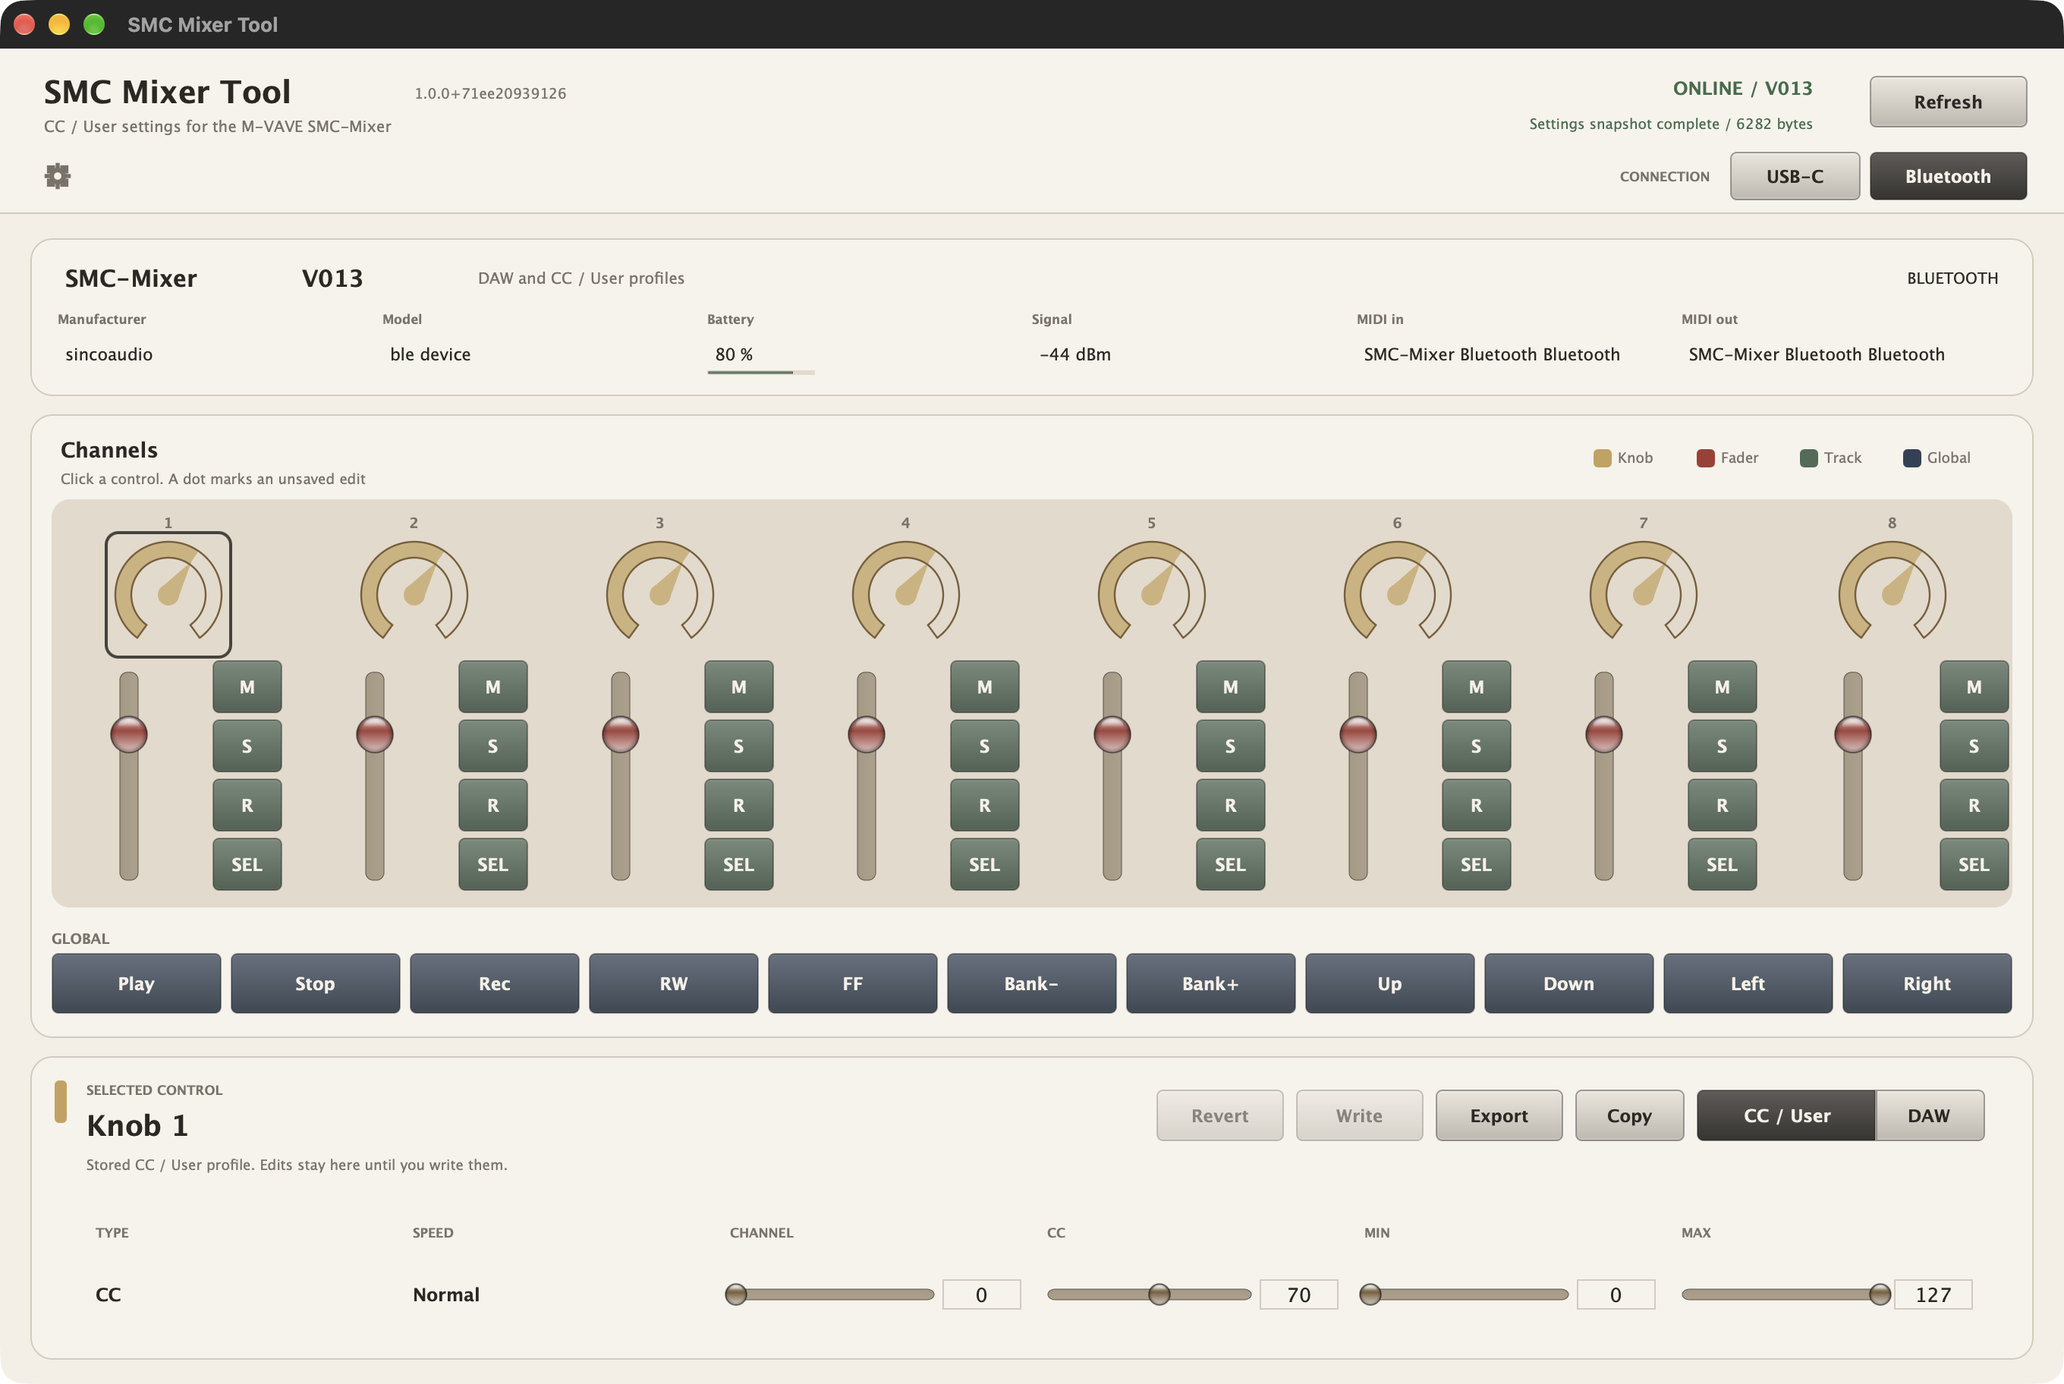
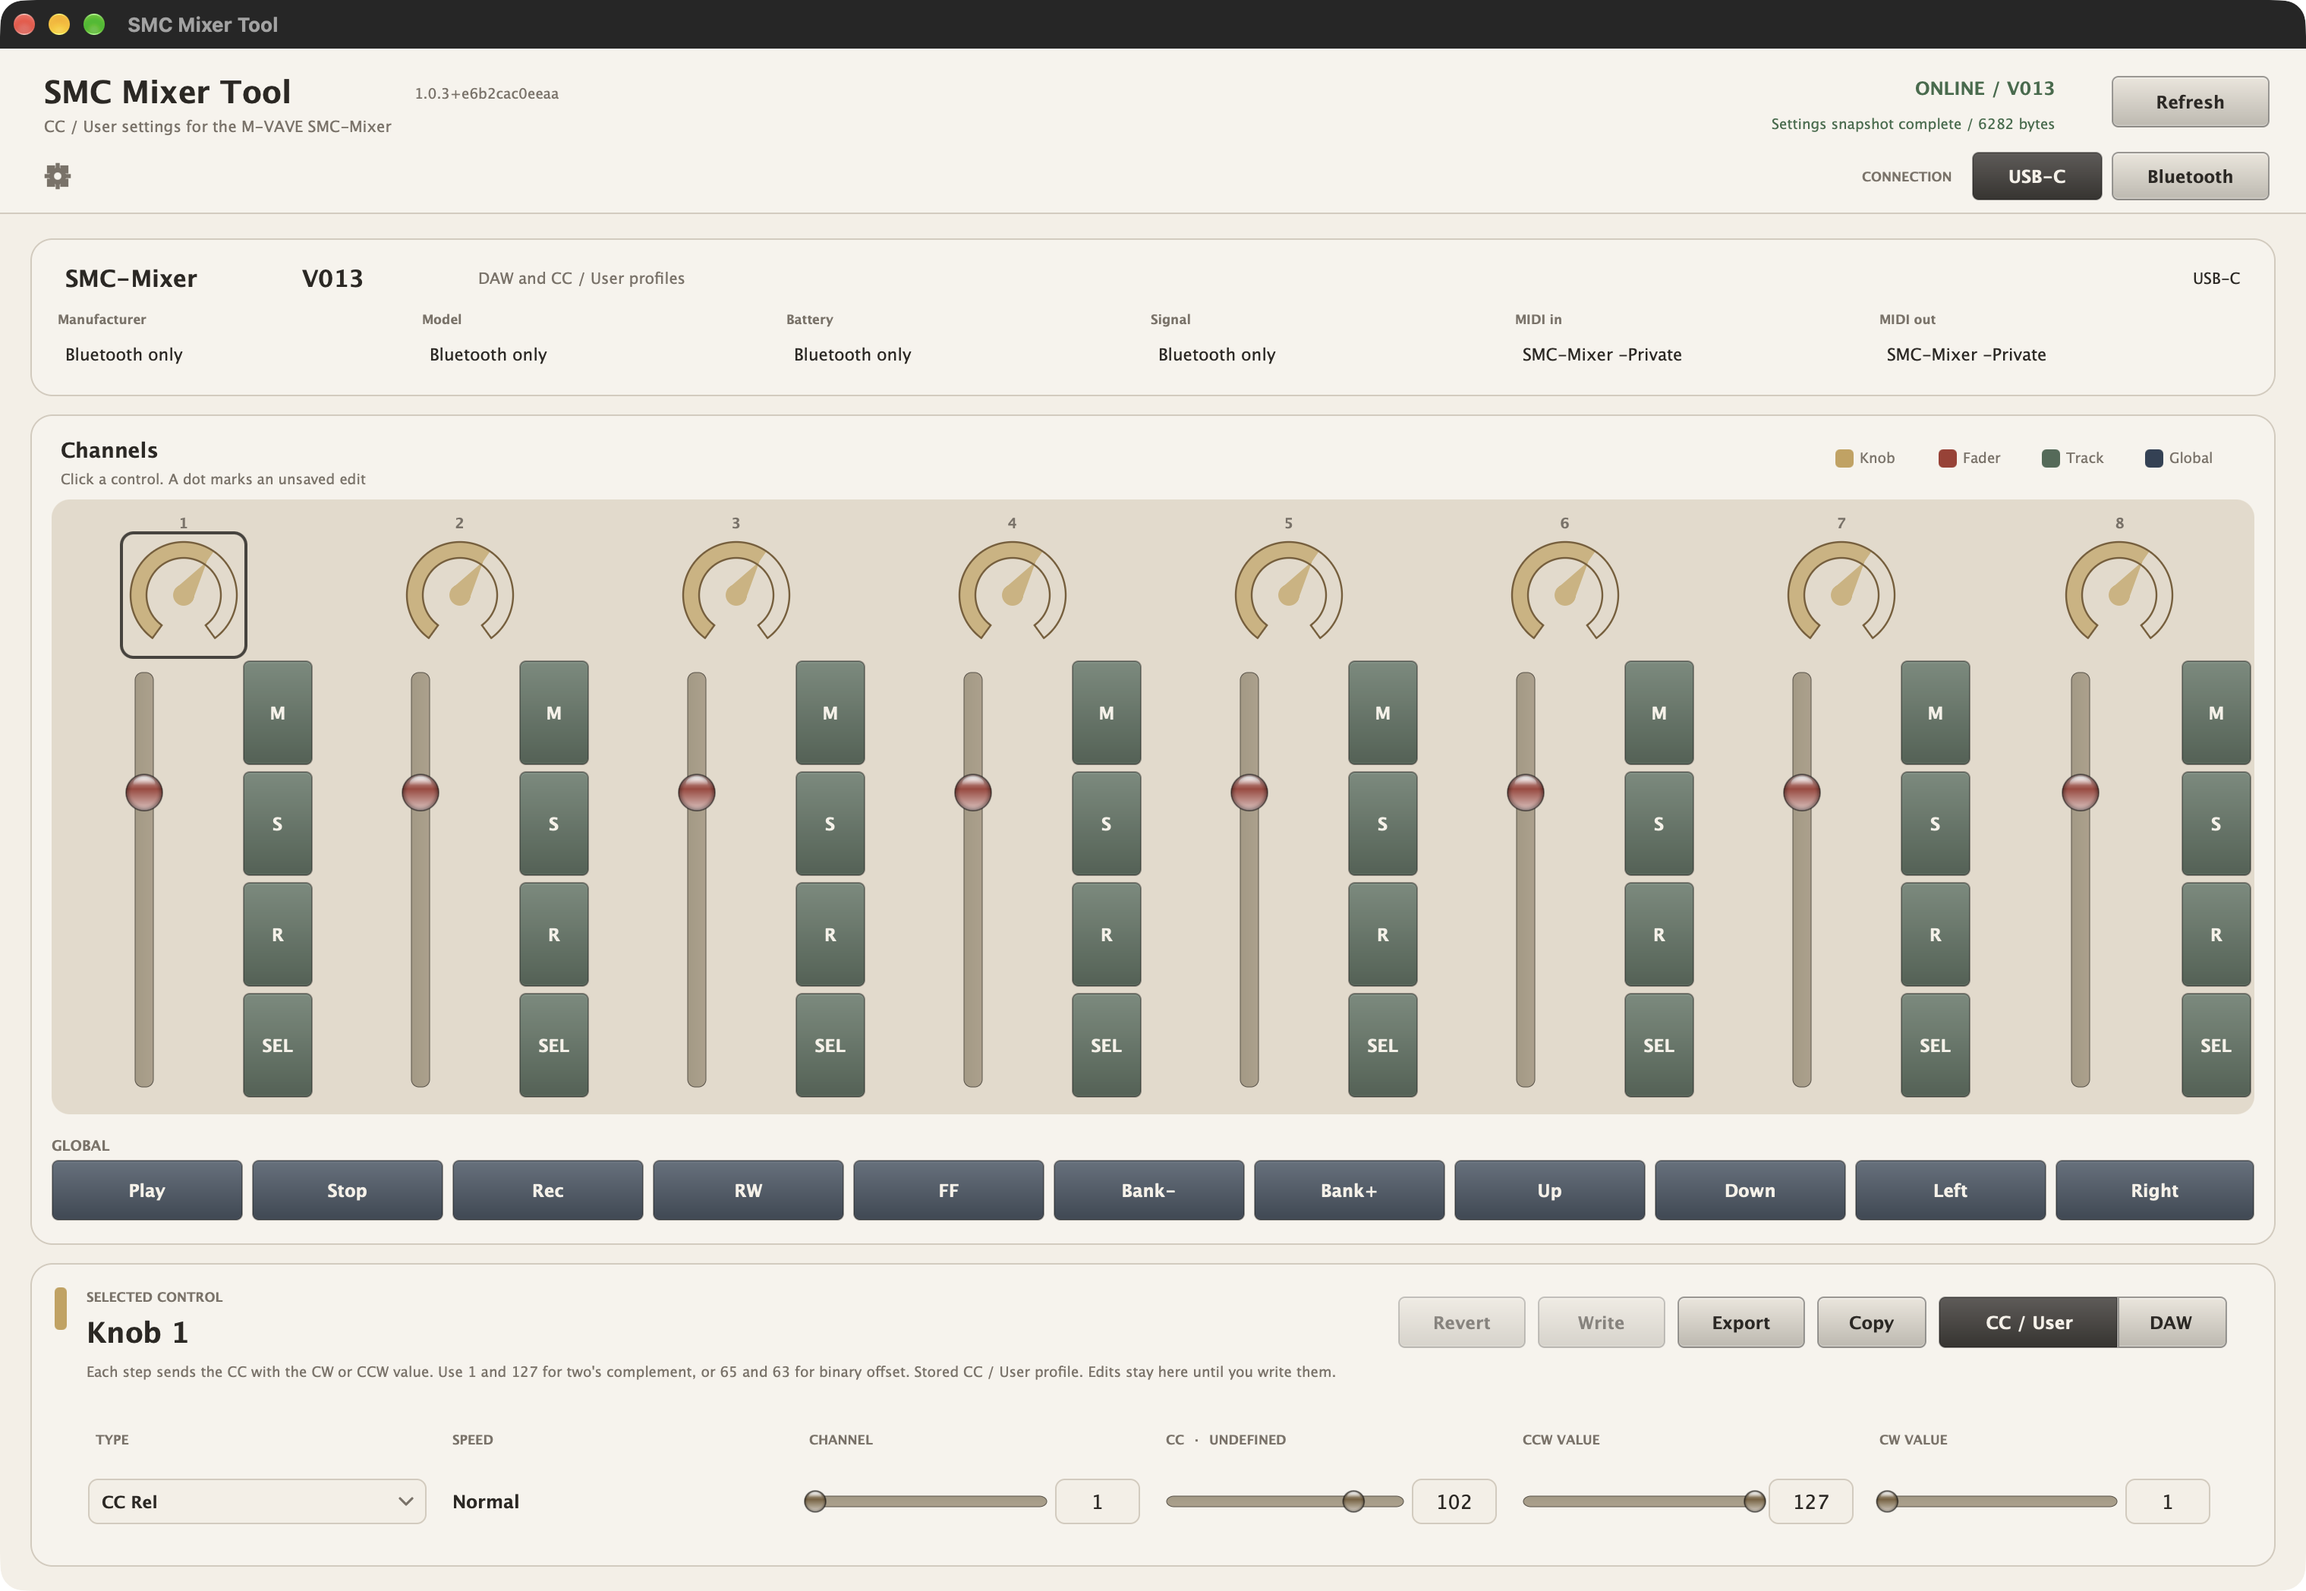
Show 1.0.3 in the README screenshot.
The new screenshot is the app on USB-C with knob 1 selected as a CC Rel knob, so it shows the CW and CCW values and the status hint.

diff --git a/README.md b/README.md
@@ -2,7 +2,7 @@
 
 macOS app for the M-VAVE SMC-Mixer ([Wireless DAW Control Surface](https://www.m-vave.com/product?id=smc-mixer)). It reads the device identity and both stored profiles over USB-C or Bluetooth, edits the CC / User profile, and writes the changed records back.
 
-![SMC Mixer Tool connected to an SMC-Mixer over Bluetooth](docs/screenshot.png)
+![SMC Mixer Tool connected to an SMC-Mixer over USB-C, with knob 1 set to CC Rel](docs/screenshot.png)
 
 ## Download
 
